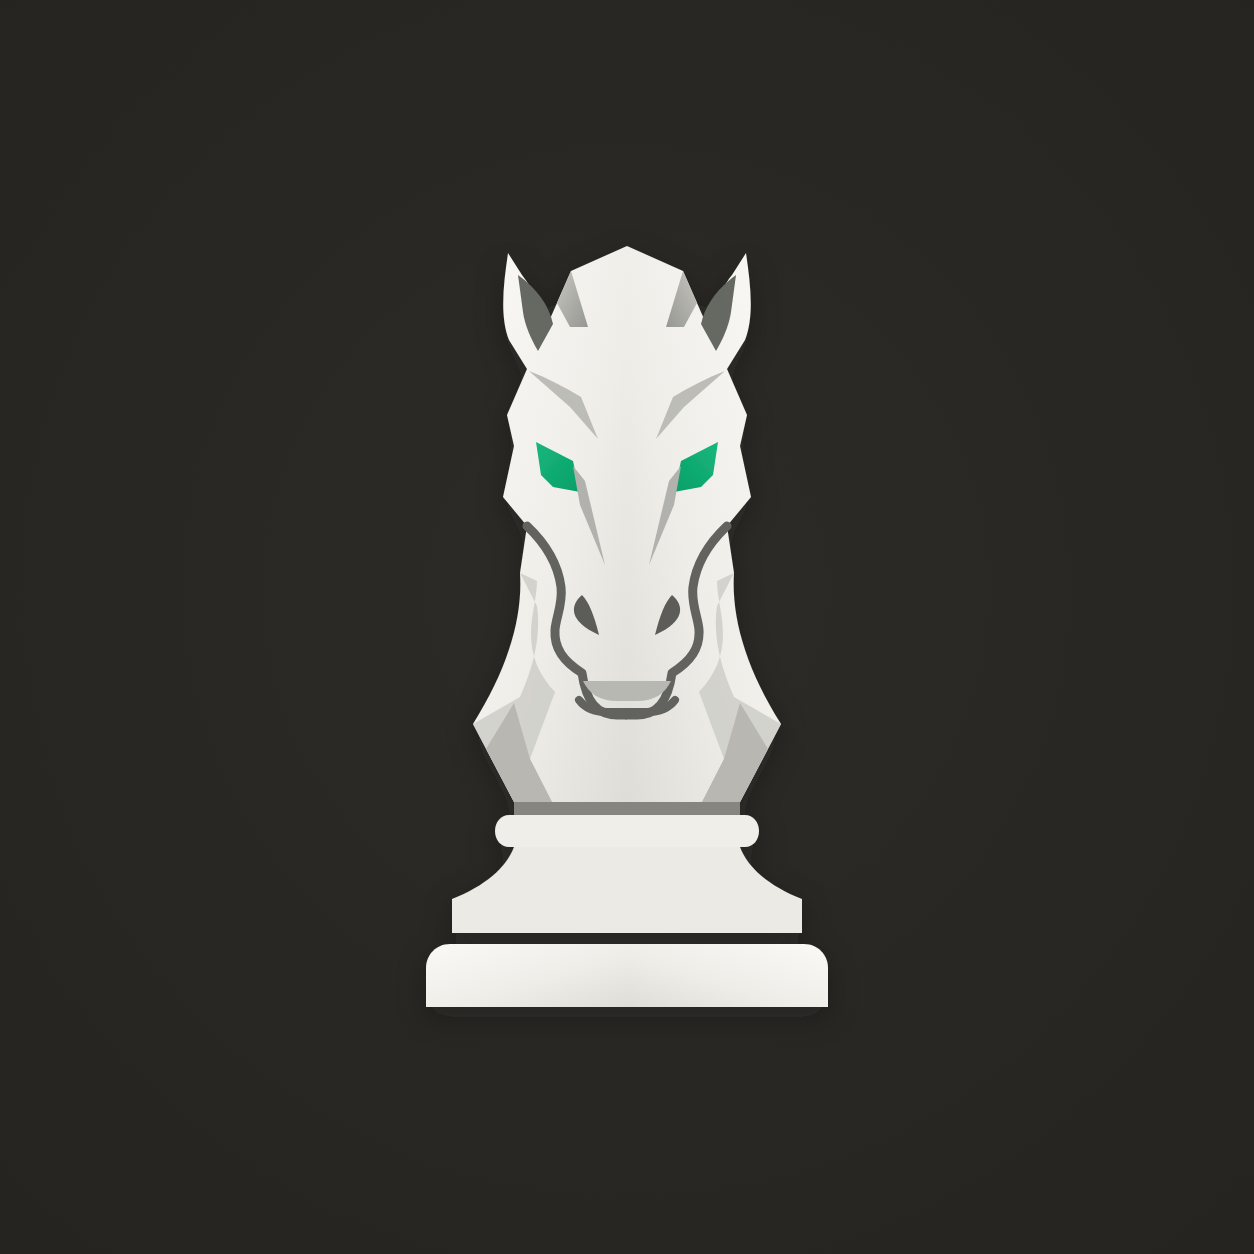
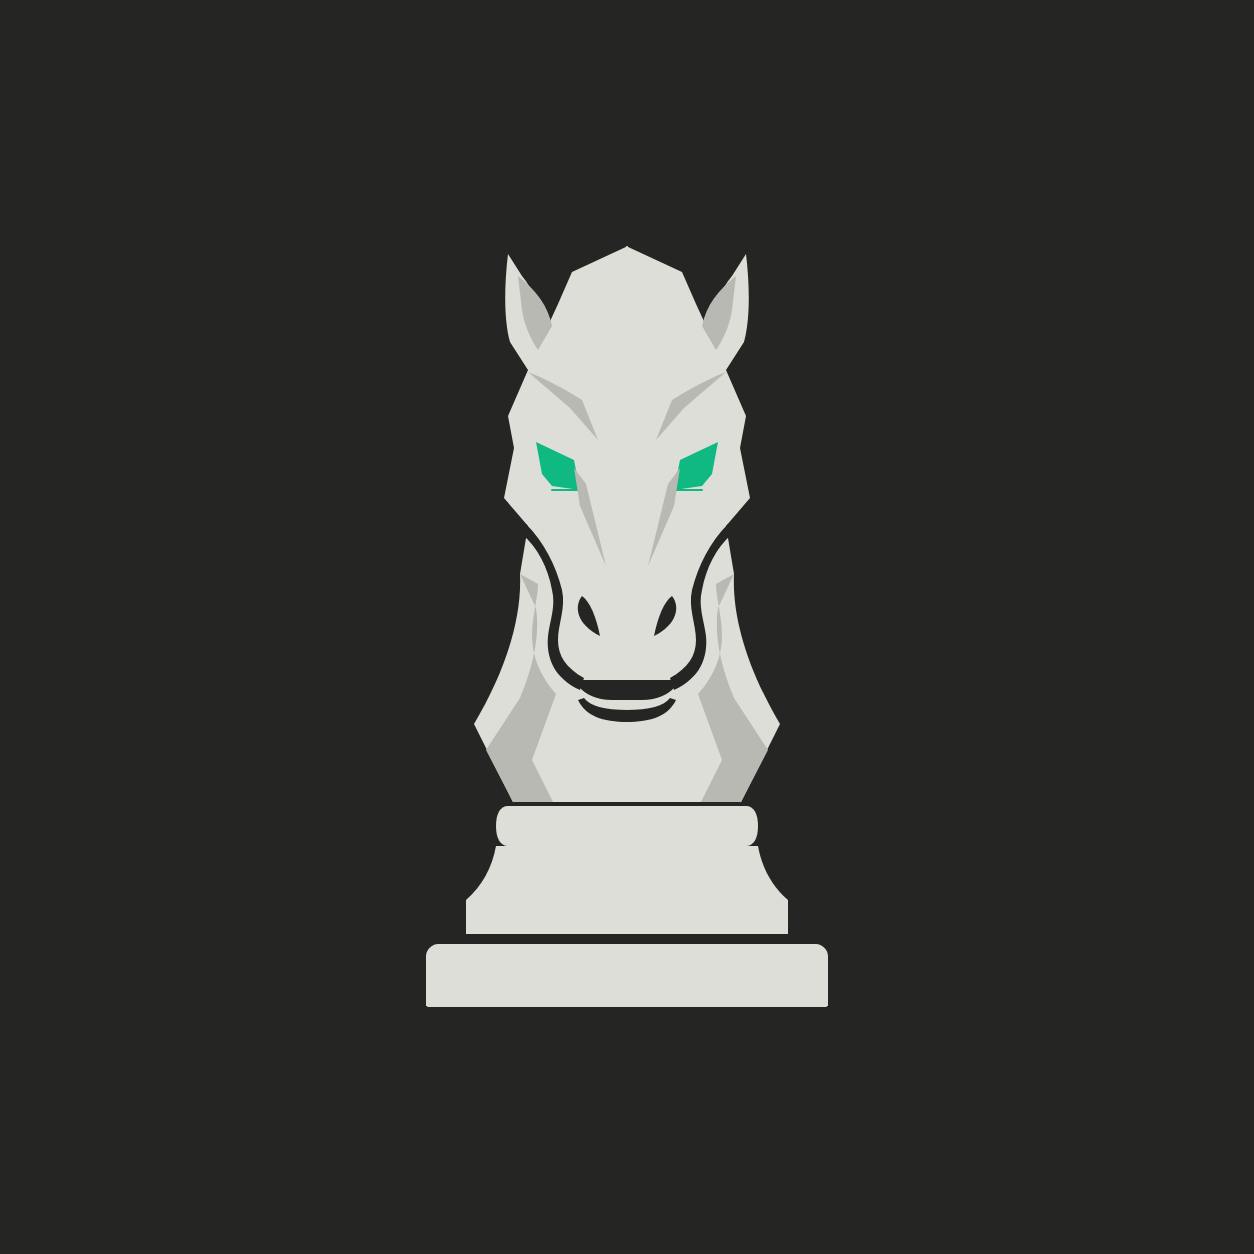
refactor: flatten and simplify knight symbol

diff --git a/_bmad-output/implementation-artifacts/knight-symbol-scale-test.html b/_bmad-output/implementation-artifacts/knight-symbol-scale-test.html
@@ -1,0 +1,46 @@
+<!doctype html>
+<html lang="en">
+<meta charset="utf-8">
+<title>Knight symbol scale test</title>
+<style>
+  * { box-sizing: border-box; }
+  body { margin: 0; padding: 24px; background: #171717; color: #deded9; font: 12px/1.4 Arial, sans-serif; }
+  h1 { margin: 0 0 20px; font-size: 16px; }
+  h2 { margin: 0 0 8px; font-size: 12px; font-weight: 600; }
+  section + section { margin-top: 24px; }
+  .row { display: flex; align-items: center; gap: 24px; min-height: 272px; }
+  figure { display: grid; place-items: center; gap: 8px; margin: 0; }
+  figcaption { color: #b9b9b3; }
+  img { display: block; width: var(--size); height: var(--size); }
+  .squint img { filter: grayscale(1) blur(var(--blur)); }
+</style>
+<h1>Thinker Chess knight — scale validation</h1>
+<section>
+  <h2>Native color</h2>
+  <div class="row">
+    <figure><img src="../../assets/knight-symbol.svg" style="--size:16px"><figcaption>16 px</figcaption></figure>
+    <figure><img src="../../assets/knight-symbol.svg" style="--size:32px"><figcaption>32 px</figcaption></figure>
+    <figure><img src="../../assets/knight-symbol.svg" style="--size:64px"><figcaption>64 px</figcaption></figure>
+    <figure><img src="../../assets/knight-symbol.svg" style="--size:128px"><figcaption>128 px</figcaption></figure>
+    <figure><img src="../../assets/knight-symbol.svg" style="--size:256px"><figcaption>256 px</figcaption></figure>
+  </div>
+</section>
+<section class="squint">
+  <h2>Grayscale + scale-normalized Gaussian blur</h2>
+  <div class="row">
+    <figure><img src="../../assets/knight-symbol.svg" style="--size:16px;--blur:.0625px"><figcaption>16 px</figcaption></figure>
+    <figure><img src="../../assets/knight-symbol.svg" style="--size:32px;--blur:.125px"><figcaption>32 px</figcaption></figure>
+    <figure><img src="../../assets/knight-symbol.svg" style="--size:64px;--blur:.25px"><figcaption>64 px</figcaption></figure>
+    <figure><img src="../../assets/knight-symbol.svg" style="--size:128px;--blur:.5px"><figcaption>128 px</figcaption></figure>
+    <figure><img src="../../assets/knight-symbol.svg" style="--size:256px;--blur:1px"><figcaption>256 px</figcaption></figure>
+  </div>
+</section>
+<section>
+  <h2>Small-icon fallback</h2>
+  <div class="row" style="min-height:96px">
+    <figure><img src="../../assets/knight-symbol-small.svg" style="--size:16px"><figcaption>16 px</figcaption></figure>
+    <figure><img src="../../assets/knight-symbol-small.svg" style="--size:32px"><figcaption>32 px</figcaption></figure>
+    <figure><img src="../../assets/knight-symbol-small.svg" style="--size:64px"><figcaption>64 px</figcaption></figure>
+  </div>
+</section>
+</html>

diff --git a/scripts/validate_knight_symbol.py b/scripts/validate_knight_symbol.py
@@ -1,0 +1,115 @@
+import json
+import re
+import xml.etree.ElementTree as ET
+from pathlib import Path
+
+from PIL import Image, ImageChops, ImageOps
+
+
+ROOT = Path(__file__).resolve().parents[1]
+SVG_PATH = ROOT / "assets" / "knight-symbol.svg"
+SMALL_SVG_PATH = ROOT / "assets" / "knight-symbol-small.svg"
+PREVIEW_PATH = ROOT / "assets" / "knight-symbol-preview.png"
+EXPECTED_COLORS = ["#10B981", "#252523", "#B9B9B3", "#DEDED9"]
+EXPECTED_SYMBOL_BOX = (426, 246, 828, 1007)
+EXPECTED_EYE_BOX = (536, 442, 718, 491)
+
+
+def bounds(points):
+    return (
+        min(x for x, _ in points),
+        min(y for _, y in points),
+        max(x for x, _ in points) + 1,
+        max(y for _, y in points) + 1,
+    )
+
+
+def difference_pixels(image):
+    pixels = image.load()
+    return sum(
+        pixels[x, y] != (0, 0, 0)
+        for y in range(image.height)
+        for x in range(image.width)
+    )
+
+
+source = SVG_PATH.read_text(encoding="utf-8")
+nodes = list(ET.fromstring(source).iter())
+colors = sorted(set(value.upper() for value in re.findall(r"#[0-9a-fA-F]{6}", source)))
+widths = sorted(set(node.attrib["stroke-width"] for node in nodes if "stroke-width" in node.attrib))
+path_numbers = []
+for node in nodes:
+    if node.tag.endswith("path"):
+        path_numbers.extend(int(value) for value in re.findall(r"-?\d+", node.attrib.get("d", "")))
+
+image = Image.open(PREVIEW_PATH).convert("RGB")
+pixels = image.load()
+background = (37, 37, 35)
+symbol_points = []
+eye_points = []
+for y in range(image.height):
+    for x in range(image.width):
+        color = pixels[x, y]
+        if color != background:
+            symbol_points.append((x, y))
+        red, green, blue = color
+        if green > red * 1.25 and green > blue * 1.15 and green > 80:
+            eye_points.append((x, y))
+
+left = image.crop((0, 0, image.width // 2, image.height))
+canonical = Image.new("RGB", image.size, background)
+canonical.paste(left, (0, 0))
+canonical.paste(ImageOps.mirror(left), (image.width // 2, 0))
+canonical_difference = ImageChops.difference(canonical, ImageOps.mirror(canonical))
+raw_difference = ImageChops.difference(image, ImageOps.mirror(image))
+
+small_source = SMALL_SVG_PATH.read_text(encoding="utf-8")
+small_root = ET.fromstring(small_source)
+small_nodes = list(small_root.iter())
+small_numbers = []
+for node in small_nodes:
+    if node.tag.endswith("path"):
+        small_numbers.extend(int(value) for value in re.findall(r"-?\d+", node.attrib.get("d", "")))
+
+result = {
+    "colors": colors,
+    "stroke_widths": widths,
+    "path_count": sum(node.tag.endswith("path") for node in nodes),
+    "file_bytes": SVG_PATH.stat().st_size,
+    "symbol_box": bounds(symbol_points),
+    "eye_box": bounds(eye_points),
+    "path_grid_violations": sorted(set(value for value in path_numbers if value % 2)),
+    "mirrored_use_count": sum(
+        "scale(-1 1)" in node.attrib.get("transform", "")
+        for node in nodes
+        if node.tag.endswith("use")
+    ),
+    "canonical_mirror_difference_pixels": difference_pixels(canonical_difference),
+    "chromium_antialias_difference_pixels": difference_pixels(raw_difference),
+    "small_icon": {
+        "view_box": small_root.attrib["viewBox"],
+        "colors": sorted(set(value.upper() for value in re.findall(r"#[0-9a-fA-F]{6}", small_source))),
+        "path_count": sum(node.tag.endswith("path") for node in small_nodes),
+        "path_grid_violations": sorted(set(value for value in small_numbers if value % 2)),
+        "mirrored_use_count": sum(
+            "scale(-1 1)" in node.attrib.get("transform", "")
+            for node in small_nodes
+            if node.tag.endswith("use")
+        ),
+    },
+}
+
+assert colors == EXPECTED_COLORS
+assert widths == ["2", "4"]
+assert not any(tag in source for tag in ("<linearGradient", "<radialGradient", "<filter"))
+assert not re.search(r"(?:fill-)?opacity", source)
+assert result["symbol_box"] == EXPECTED_SYMBOL_BOX
+assert result["eye_box"] == EXPECTED_EYE_BOX
+assert not result["path_grid_violations"]
+assert result["mirrored_use_count"] == 2
+assert result["canonical_mirror_difference_pixels"] == 0
+assert result["small_icon"]["view_box"] == "246 246 762 762"
+assert set(result["small_icon"]["colors"]).issubset(EXPECTED_COLORS)
+assert not result["small_icon"]["path_grid_violations"]
+assert result["small_icon"]["mirrored_use_count"] == 1
+print(json.dumps(result, indent=2))

diff --git a/_bmad-output/implementation-artifacts/spec-hand-authored-symmetric-knight-symbol.md b/_bmad-output/implementation-artifacts/spec-hand-authored-symmetric-knight-symbol.md
@@ -15,7 +15,8 @@ Create the Thinker Chess knight as a native SVG without tracing or embedding ras
 - The left half of the horse and pedestal is authored with compact SVG paths.
 - The right half is produced exclusively through an exact horizontal mirror transform around the 627 px centerline.
 - Eyes, nostrils, facial folds, neck facets, and pedestal geometry therefore remain mathematically bilateral.
-- Subtle gradients, restrained grain, and a neutral shadow reproduce the reference's dimensional treatment without changing its identity.
+- Four solid colors and two stroke widths produce a flat, scale-resistant mark without gradients, filters, opacity, blur, or shadow.
+- All authored path coordinates use a 2 px grid; the 627 px centerline is established by the mirror transform rather than duplicated right-side geometry.
 - The 1254 by 1254 view box matches the supplied reference canvas.
 
 ## Acceptance
@@ -23,11 +24,14 @@ Create the Thinker Chess knight as a native SVG without tracing or embedding ras
 - No raster image is embedded in the SVG.
 - No automatic vectorization output is present.
 - Facial details and pedestal geometry share the same mirrored construction.
-- The visual symbol remains centered and within the reference proportions.
+- The visual symbol retains the `(426,246)-(828,1007)` box and the eyes retain `(536,442)-(718,491)`.
+- The small-icon fallback removes details that become noise at 16–32 px while preserving the silhouette, eyes, and one shadow plane.
 - The SVG renders successfully in Chromium at its native dimensions.
 
 ## Suggested review order
 
 1. `assets/knight-symbol-preview.png`
 2. `assets/knight-symbol.svg`
-3. Compare silhouette, palette, and vertical proportions with the supplied PNG.
+3. `assets/knight-symbol-small.svg`
+4. `_bmad-output/implementation-artifacts/knight-symbol-scale-test.png`
+5. Compare silhouette, palette, boxes, and scale behavior with the supplied PNG.

diff --git a/_bmad-output/implementation-artifacts/spec-flat-knight-symbol-refinement.md b/_bmad-output/implementation-artifacts/spec-flat-knight-symbol-refinement.md
@@ -1,0 +1,23 @@
+---
+title: 'Flat knight symbol refinement'
+type: 'refactor'
+created: '2026-10-22'
+status: 'done'
+route: 'one-shot'
+---
+
+# Flat knight symbol refinement
+
+## Intent
+
+**Problem:** The initial hand-authored knight relied on gradients, shadow, grain, numerous colors, and facial details that did not justify themselves at icon sizes.
+
+**Approach:** Reduce the mark to four solid colors, two stroke widths, even-grid half geometry mirrored through `<use>`, a narrower pedestal, and a dedicated small-icon fallback while preserving the mandated symbol and eye boxes.
+
+## Suggested Review Order
+
+1. [`assets/knight-symbol.svg`](../../assets/knight-symbol.svg) — primary flat geometry, palette, and mirrored construction.
+2. [`assets/knight-symbol-small.svg`](../../assets/knight-symbol-small.svg) — simplified 16–32 px fallback.
+3. [`knight-symbol-scale-test.png`](./knight-symbol-scale-test.png) — native, grayscale, blur, and fallback scale evidence.
+4. [`knight-symbol-400-comparison.png`](./knight-symbol-400-comparison.png) — 400% before/after feature crops.
+5. [`scripts/validate_knight_symbol.py`](../../scripts/validate_knight_symbol.py) — reproducible structural, box, grid, and symmetry checks.
